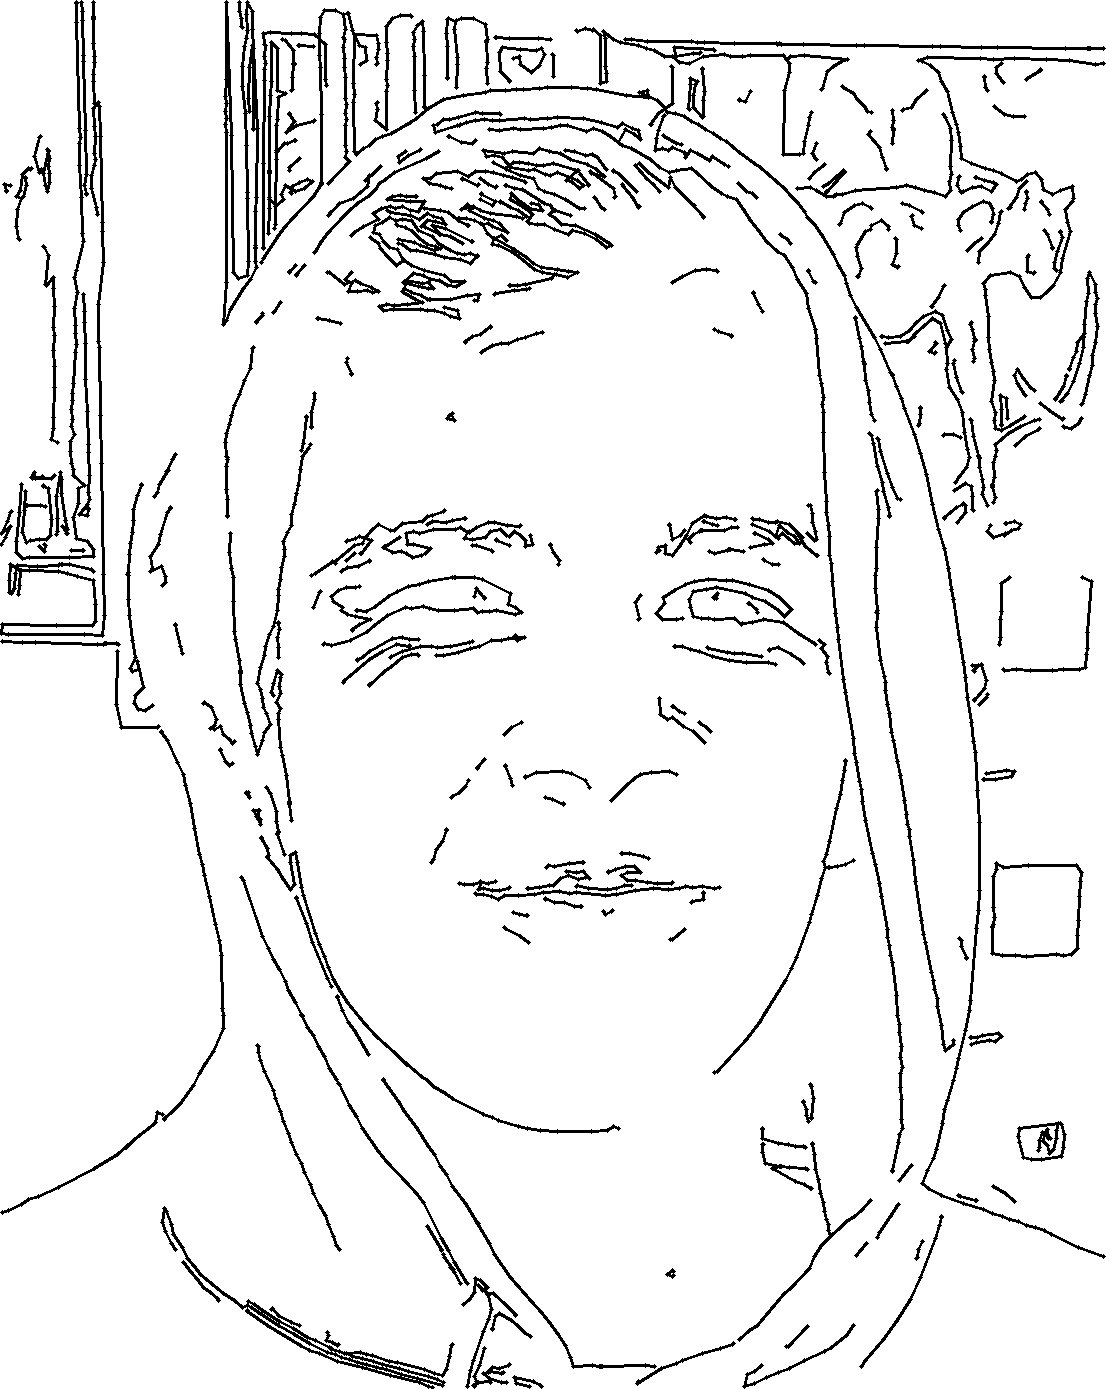
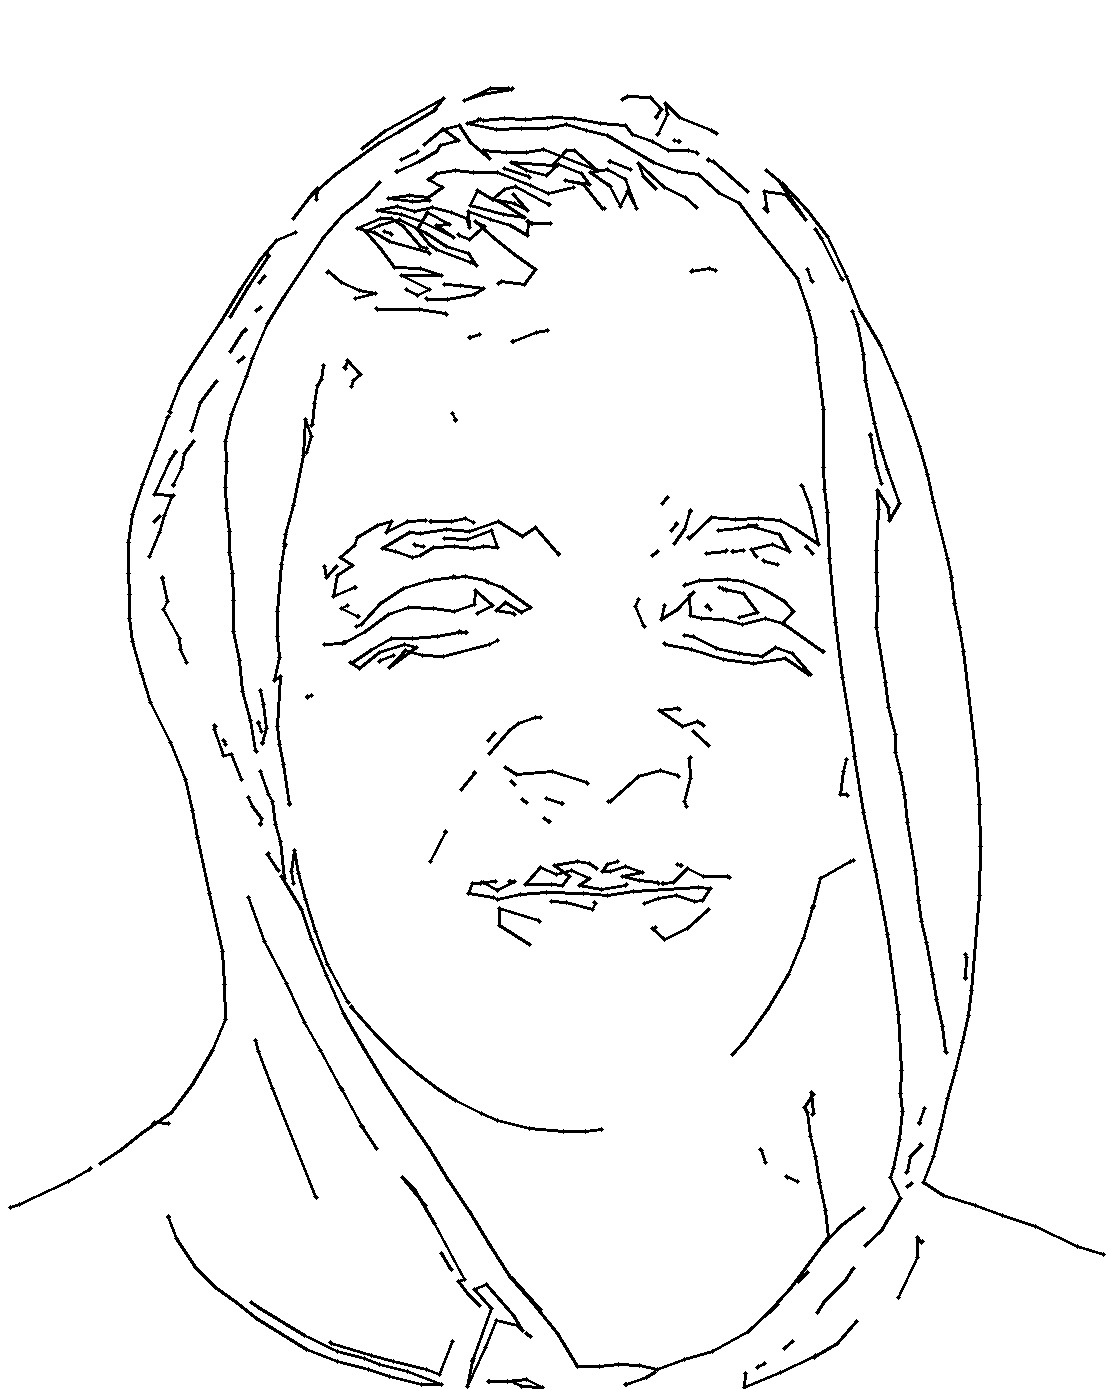
adaptive

diff --git a/full_face_processing.py b/full_face_processing.py
@@ -146,6 +146,8 @@ def process_edges_raw(filename, blur_radius = 17, lower_thresh = 0,
     gray = cv2.GaussianBlur(gray, (blur_radius, blur_radius), 0)
 
     edges = cv2.Canny(gray, lower_thresh, upper_thresh)
+    # cv2.imshow("edges", edges)
+    # cv2.waitKey(0)
     edges2 = copy.deepcopy(edges)
 
     for y in range(len(edges)):
@@ -611,9 +613,7 @@ def process_shading_raw(filename, blur_radius = 3, line_dist = 20, theta = None,
 
 def process_combo_raw(filename):
     
-    segments = process_edges_raw(filename, blur_radius = 11, lower_thresh = 10,
-        upper_thresh = 50, segmentSplitDistance=15, areaCut = 3,
-        minNumPixels = 15)
+    segments = process_edges_raw(filename, blur_radius=15, lower_thresh=5, upper_thresh=40, areaCut=10, minNumPixels=5, segmentSplitDistance=20)
     segments.extend(process_shading_raw(filename,blur_radius=21, line_dist= 20, areaCut=5))
     
     return segments
@@ -631,6 +631,7 @@ if __name__ == "__main__":
 
     segments= process_combo_raw(filename)
     # segments = process_shading_raw(filename)
+    # segments = process_edges_raw(filename, blur_radius=15, lower_thresh=5, upper_thresh=40, areaCut=10, minNumPixels=5, segmentSplitDistance=20)
     plot_segments(segments)
 
     # segments = process_shading_raw(filename, n=5, theta=math.pi/4)

diff --git a/posterize.py b/posterize.py
@@ -128,7 +128,7 @@ def make_linerinos(image, p1, p2, color=255):
 '''shit method I really should have programmed while I was awake, but being awake is rather cringe'''
 
 
-def get_spinny(im, line_dist=30, theta=None, thresholds = [30, 50, 80]):
+def get_spinny(im, line_dist=30, theta=None, thresholds = [30, 50, 80, 85, 90]):
 
     n = len(thresholds)
     blank = im.copy()
@@ -143,8 +143,8 @@ def get_spinny(im, line_dist=30, theta=None, thresholds = [30, 50, 80]):
     for thresh in thresholds:
         out = cv2.adaptiveThreshold(im, 255, cv2.ADAPTIVE_THRESH_GAUSSIAN_C, cv2.THRESH_BINARY, 501, thresh)
         images.append(out)
-        # cv2.imshow("test", out)
-        # cv2.waitKey(0)
+        cv2.imshow("test", out)
+        cv2.waitKey(0)
 
 
     # indices = np.arange(0, 256)  # List of all colors
